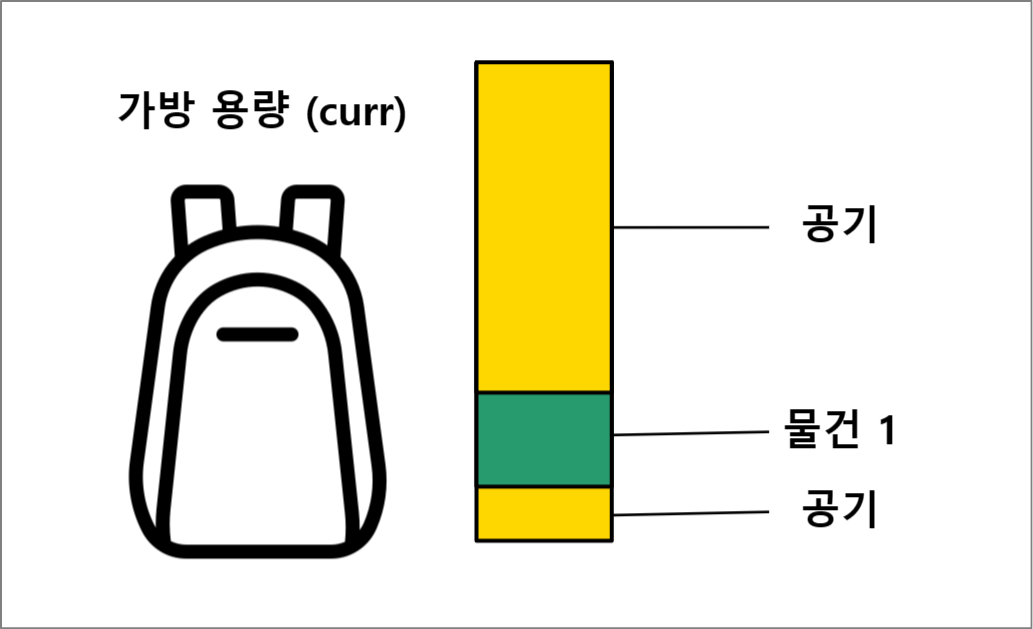
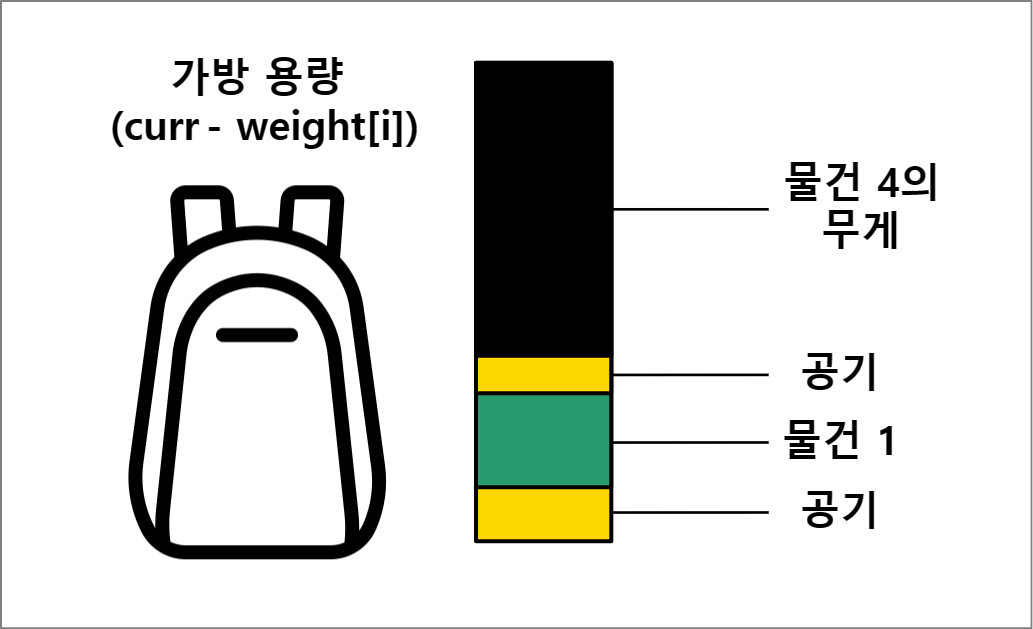
✍ update: additional knapsack explanation
- 배낭 문제 설명 보완

diff --git a/algorithm/knapsack.md b/algorithm/knapsack.md
@@ -18,8 +18,15 @@ parent: 알고리즘
 {: .fw-700 }
 
 <div class="code-example" markdown="1">
-배낭 문제는 최대로 담을 수 있는 무게가 주어진 가방에 무게와 가치를 알고 있는 물건을 가치의 합이 최대가 되도록 담는 조합을 찾는 문제이다.
-물건을 나누어 담을 수 있는가와 나누어 담을 수 없는가에 따라 풀이 방식이 나뉘게 된다.
+배낭 문제는 각 요소들의 비용과 그 가치가 주어질 때, 임의로 정한 비용을 초과하지 않는 범위 내에서 가치의 합이 최대가 되도록 선택하는 조합을 찾는 문제이다.
+간단하게 말하면, 내가 현재 가지고 있는 배낭에 최대로 담을 수 있는 무게가 정해져 있고 배낭에 넣을 짐들의 무게와 가치를 알고 있을 때,
+가치의 합이 최댓값이 되도록 짐을 고르는 방법을 찾는 문제이다.
+
+![sample.png](../assets/knapsack_0.png)
+{: .mx-4 .mt-2 }
+
+배낭 문제는 물건을 나누어 담을 수 있는가와 나누어 담을 수 없는가에 따라 풀이 방식이 나뉘게 된다.
+이러한 문제 유형을 각각 [분할 가능 배낭 문제](#분할-가능-배낭-문제)와 [0-1 배낭 문제](#0-1-배낭-문제)이라고 부른다.
 </div>
 
 ## 분할 가능 배낭 문제
@@ -66,6 +73,9 @@ float knapsack() {
 반대로 현재 용량보다 해당 물건의 총 무게가 더 클 경우, `(가치 / 무게) × 남은 용량`만큼만 더하고 반복문을 탈출한다.
 결과적으로 가치가 높은 물건 순으로 넣을 수 있을 때까지 나누어 넣으면, 넣을 수 있는 물건의 가치의 합이 최대가 된다.
 {: .mt-1 }
+
+{: .highlight }
+물건을 배낭에 나누어 담을 수 있을 경우에는 무게 대비 가치가 가장 높은 물건들만 고려하면 되는 그리디 알고리즘이 적합하다.
 </div>
 
 ## 0-1 배낭 문제
@@ -76,6 +86,16 @@ float knapsack() {
 
 수식으로 나타내자면,
 {: .pl-3 .d-inline .v-align-middle }
+각 물건의 무게
+{: .d-inline .v-align-middle }
+![w_i](https://wikimedia.org/api/rest_v1/media/math/render/svg/fe22f0329d3ecb2e1880d44d191aba0e5475db68)
+{: .d-inline .v-align-middle }
+와 가치
+{: .d-inline .v-align-middle }
+![v_i](https://wikimedia.org/api/rest_v1/media/math/render/svg/7dffe5726650f6daac54829972a94f38eb8ec127)
+{: .d-inline .v-align-middle }
+에 대하여
+{: .d-inline .v-align-middle .mr-1 }
 ![x_range](https://wikimedia.org/api/rest_v1/media/math/render/svg/07dda71da2a630762c7b21b51ea54f86f422f951)
 {: .d-inline .v-align-middle }
 과
@@ -158,4 +178,8 @@ memo[index - 1][curr - weight[i]] + value[i];
 {: .mx-4 .mt-2 .mb-6 }
 물론, 공기나 물건을 다 빼고 물건 4를 넣었을 때, 그 값이 더 작다면 기존의 값을 유지한다.
 이 과정을 0에서 실제 최대 용량인 w까지 반복을 하고, n번째 물건까지 모두 확인한 뒤에 용량이 w일 때의 값이 배낭에 담을 수 있는 가치의 합의 최댓값이 된다.
+
+{: .highlight }
+물건을 배낭에 나누어 담을 수 없는 경우에는 모든 물건들에 대해 각 물건을 넣을 때와 넣지 않을 때 중 최댓값을 찾아야하므로,
+다이나믹 프로그래밍이나 백트래킹 등의 조합 최적화 알고리즘을 사용해야 한다.
 </div>
